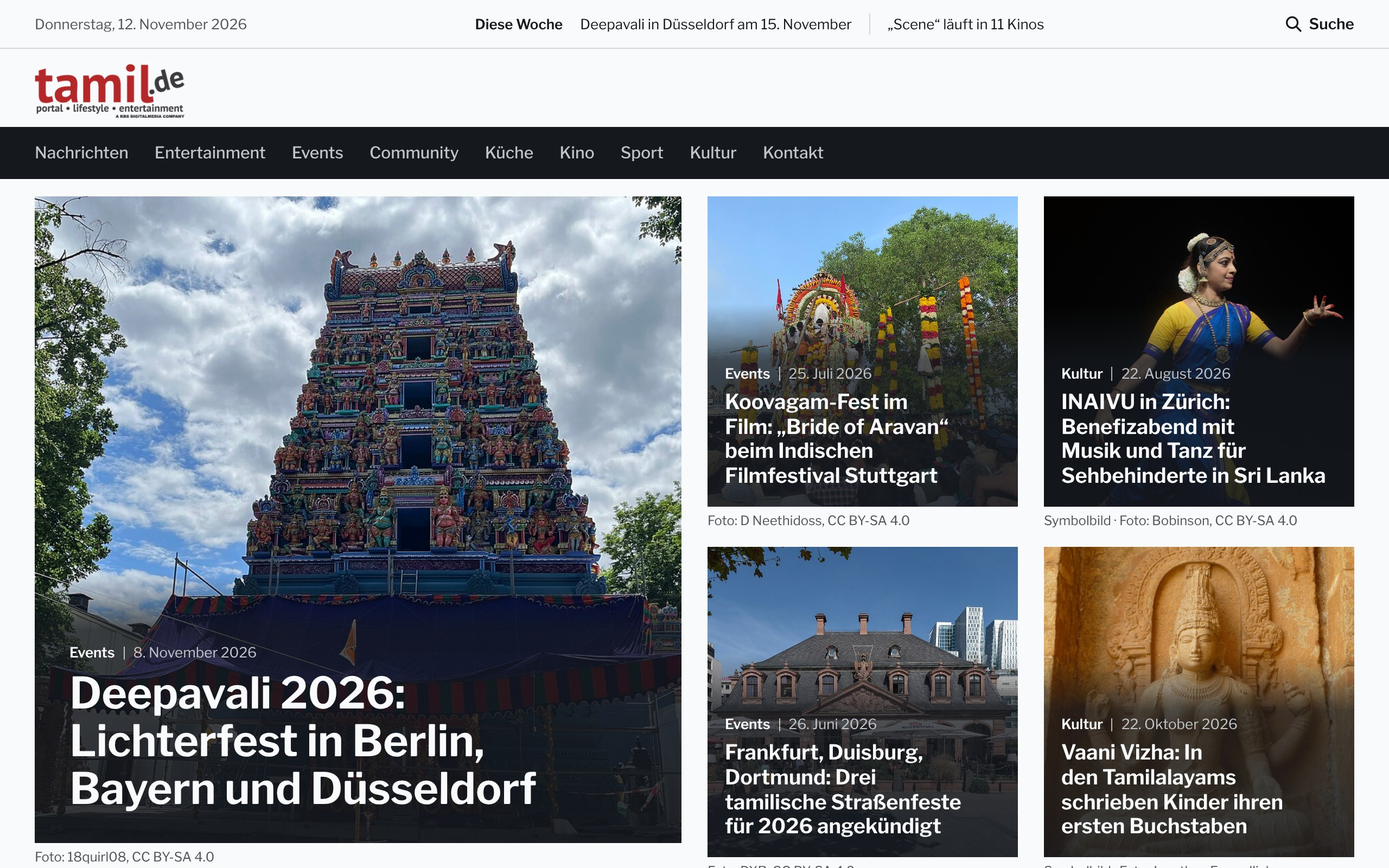
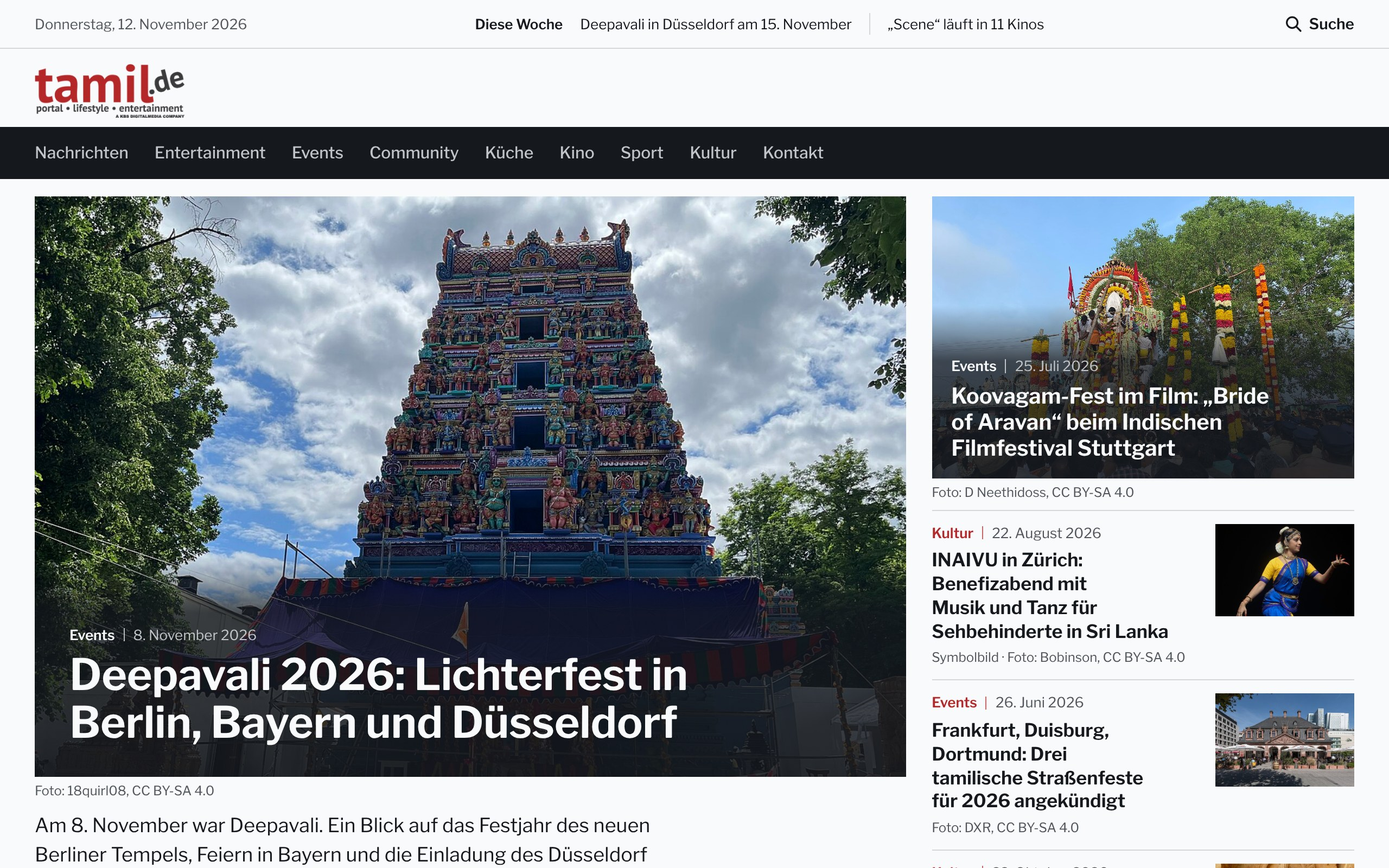
feat(design): mix-feed Feinschliff nach Kritik Runde 2 (Desktop-Aufmacher breiter, zweite Karte quer)
Prüf-Screenshots von mix-feed nicht mehr versioniert (design/richtungen/*/shots/ ist ignoriert, jederzeit neu erzeugbar).

Claude-Session: https://claude.ai/code/session_01VBg2WFSs9tPNRidQXUcJan

diff --git a/design/richtungen/mix-feed/mix-feed.css b/design/richtungen/mix-feed/mix-feed.css
@@ -170,7 +170,7 @@ a:focus-visible, button:focus-visible, input:focus-visible, textarea:focus-visib
 .karte--aufmacher .karte__text { padding-bottom: 22px; }
 .karte--aufmacher .karte__teaser { display: none; padding-inline: var(--rand); max-width: 34em; }
 .karte--klein .karte__titel { font-size: 18px; line-height: 1.25; }
-.karte--klein .karte__text { padding: 64px 14px 14px; }
+.karte--klein .karte__text { padding: 60px 14px 14px; }
 
 /* randlos am Handy */
 .start__auf, .start__kacheln > .karte, .community__gross, .rubrik__auf, .rubrik__gross {
@@ -248,7 +248,7 @@ a:focus-visible, button:focus-visible, input:focus-visible, textarea:focus-visib
 .start { padding-top: 0; }
 .start__kacheln { display: grid; gap: 24px; margin-top: 16px; }
 /* erste Karte am Handy quer, damit ihre Schlagzeile noch in den ersten Bildschirm passt */
-.start__kacheln .karte--erste .karte__flaeche { aspect-ratio: 3 / 2; }
+.start__kacheln .karte--erste .karte__flaeche, .start__kacheln .karte--zweite .karte__flaeche { aspect-ratio: 3 / 2; }
 .karte--feed .karte__titel { font-size: 22px; }
 .start__streifen .karte__titel { font-size: 19px; }
 .start__streifen .karte__text { padding: 56px 14px 14px; }
@@ -409,7 +409,7 @@ a:focus-visible, button:focus-visible, input:focus-visible, textarea:focus-visib
   .karte--aufmacher .karte__titel { font-size: 34px; }
   .karte--aufmacher .karte__teaser { display: block; }
   .start__kacheln { grid-template-columns: 1fr 1fr; }
-  .start__kacheln .karte--erste .karte__flaeche { aspect-ratio: 4 / 5; }
+  .start__kacheln .karte--erste .karte__flaeche, .start__kacheln .karte--zweite .karte__flaeche { aspect-ratio: 4 / 5; }
   .start__kacheln > .karte { margin-inline: 0; }
   .start__kacheln > .karte .nachweis { padding-inline: 0; }
   .start__streifen { display: contents; }
@@ -454,15 +454,32 @@ a:focus-visible, button:focus-visible, input:focus-visible, textarea:focus-visib
     display: grid; grid-template-columns: repeat(12, minmax(0, 1fr)); column-gap: 24px;
     padding-top: 16px; align-items: start;
   }
-  .start__auf { grid-column: 1 / 7; }
-  .start .karte--aufmacher .karte__flaeche { aspect-ratio: 1 / 1; }
+  .start__auf { grid-column: 1 / 9; }
+  .start .karte--aufmacher .karte__flaeche { aspect-ratio: 3 / 2; }
   .karte--aufmacher .karte__titel { font-size: 40px; line-height: 1.1; }
   .karte--aufmacher .karte__text { padding: 64px 32px 28px; }
-  .start__kacheln { grid-column: 7 / 13; margin-top: 0; column-gap: 24px; row-gap: 16px; }
+  /* rechts: eine Bildkarte mit Titel im Bild, darunter drei Meldungen mit kleinem Bild (dieselben Karten wie am Handy) */
+  .start__kacheln { grid-column: 9 / 13; margin-top: 0; grid-template-columns: minmax(0, 1fr); gap: 0; }
   .start__streifen { display: contents; }
-  .start__kacheln .karte__flaeche, .start__kacheln .karte--erste .karte__flaeche { aspect-ratio: 1 / 1; }
-  .start__kacheln .karte__titel, .start__streifen .karte__titel { font-size: 19px; }
-  .start__kacheln .karte__text, .start__streifen .karte__text { padding: 56px 16px 16px; }
+  .start__kacheln .karte--erste { margin-bottom: 8px; }
+  .start__kacheln .karte--erste .karte__flaeche { aspect-ratio: 3 / 2; }
+  .start__kacheln .karte--erste .karte__titel { font-size: 20px; }
+  .start__kacheln .karte--erste .karte__text { padding: 48px 18px 16px; }
+  .start__kacheln .karte--zweite, .start__streifen .karte { padding: 12px 0; border-top: 1px solid var(--linie); }
+  .start__kacheln .karte--zweite .karte__flaeche, .start__streifen .karte .karte__flaeche {
+    aspect-ratio: auto; overflow: visible; background: none; color: var(--tinte);
+    grid-template: auto / minmax(0, 1fr) 128px; column-gap: 14px;
+  }
+  .start__kacheln .karte--zweite .karte__flaeche > img, .start__streifen .karte .karte__flaeche > img {
+    grid-area: 1 / 2; height: auto; aspect-ratio: 3 / 2; align-self: start;
+  }
+  .start__kacheln .karte--zweite .karte__text, .start__streifen .karte .karte__text {
+    grid-area: 1 / 1; align-self: start; padding: 0; background: none;
+  }
+  .start__kacheln .karte--zweite .dach, .start__streifen .karte .dach { color: var(--leise); }
+  .start__kacheln .karte--zweite .dach__rubrik, .start__streifen .karte .dach__rubrik { color: var(--rot); }
+  .start__kacheln .karte--zweite .karte__titel, .start__streifen .karte .karte__titel { font-size: 17px; line-height: 1.28; }
+  .start__kacheln .karte--zweite:hover .karte__flaeche > img, .start__streifen .karte:hover .karte__flaeche > img { transform: none; }
 
   .meldungen__liste { display: grid; grid-template-columns: 1fr 1fr; column-gap: 48px; }
   .meldungen .zeile { border-bottom: 1px solid var(--linie); }
@@ -486,10 +503,10 @@ a:focus-visible, button:focus-visible, input:focus-visible, textarea:focus-visib
 
   /* Community: breite Karte links, zwei Karten rechts untereinander */
   .community__raster { display: grid; grid-template-columns: repeat(12, minmax(0, 1fr)); gap: 24px; align-items: start; }
-  .community__gross { grid-column: 1 / 9; }
+  .community__gross { grid-column: 1 / 7; }
   .community__gross .karte__flaeche { aspect-ratio: 3 / 2; }
-  .community__klein { grid-column: 9 / 13; margin-top: 0; grid-template-columns: 1fr; row-gap: 20px; }
-  .community__klein .karte__flaeche { aspect-ratio: 3 / 2; }
+  .community__klein { grid-column: 7 / 13; margin-top: 0; grid-template-columns: 1fr 1fr; gap: 24px; }
+  .community__klein .karte__flaeche { aspect-ratio: 4 / 5; }
 
   /* Küche: breite Kachel 3:2 und zwei Hochformate 4:5, gleich hoch */
   .kueche__reihe { grid-template-columns: 1.875fr 1fr 1fr; gap: 24px; }

diff --git a/design/richtungen/mix-feed/index.html b/design/richtungen/mix-feed/index.html
@@ -62,7 +62,7 @@
   </div>
   <p class="nachweis">Foto: D Neethidoss, <span class="nachweis__lizenz">CC BY-SA 4.0</span></p>
 </article>
-    <article class="karte karte--feed">
+    <article class="karte karte--feed karte--zweite">
   <div class="karte__flaeche">
     <img src="bilder/rb-83.jpg" width="1280" height="1920" alt="Die Bharatanatyam-Tänzerin Amrutha Naresh Rao bei einem Auftritt in Bangalore (Symbolbild)" style="object-position: 45% 30%">
     <div class="karte__text">
